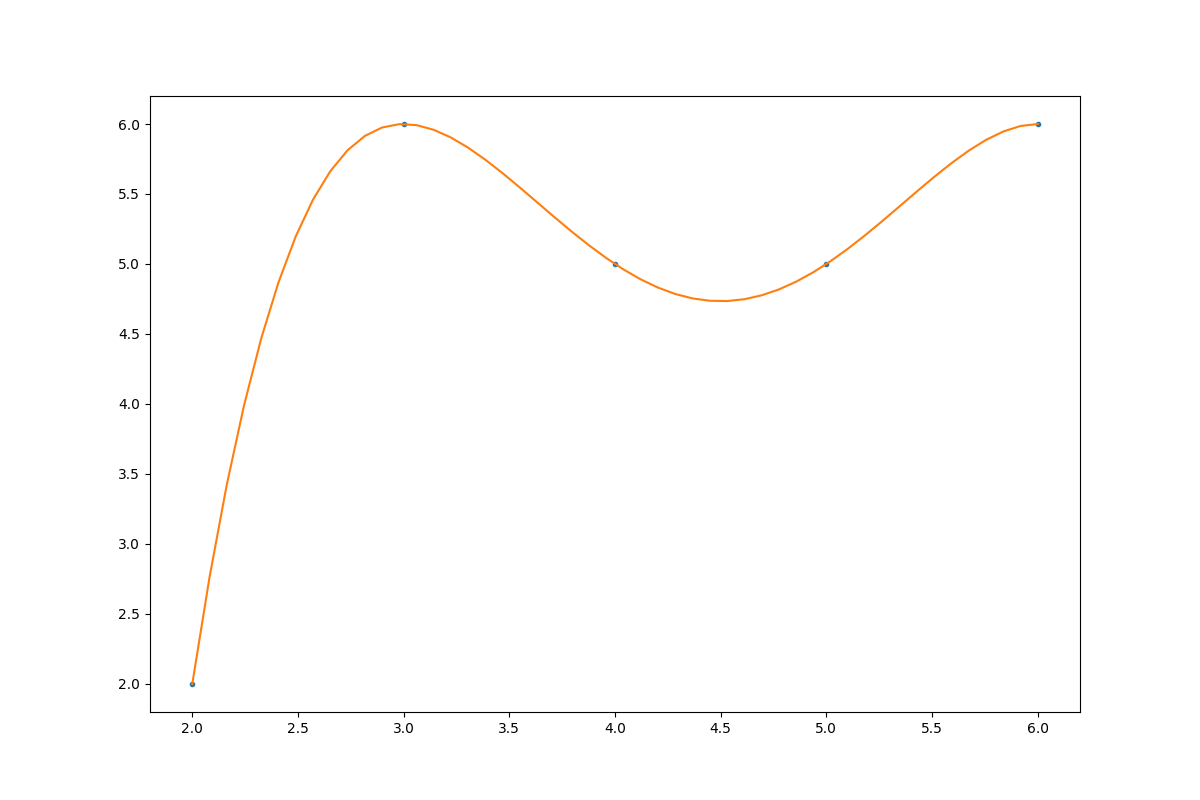
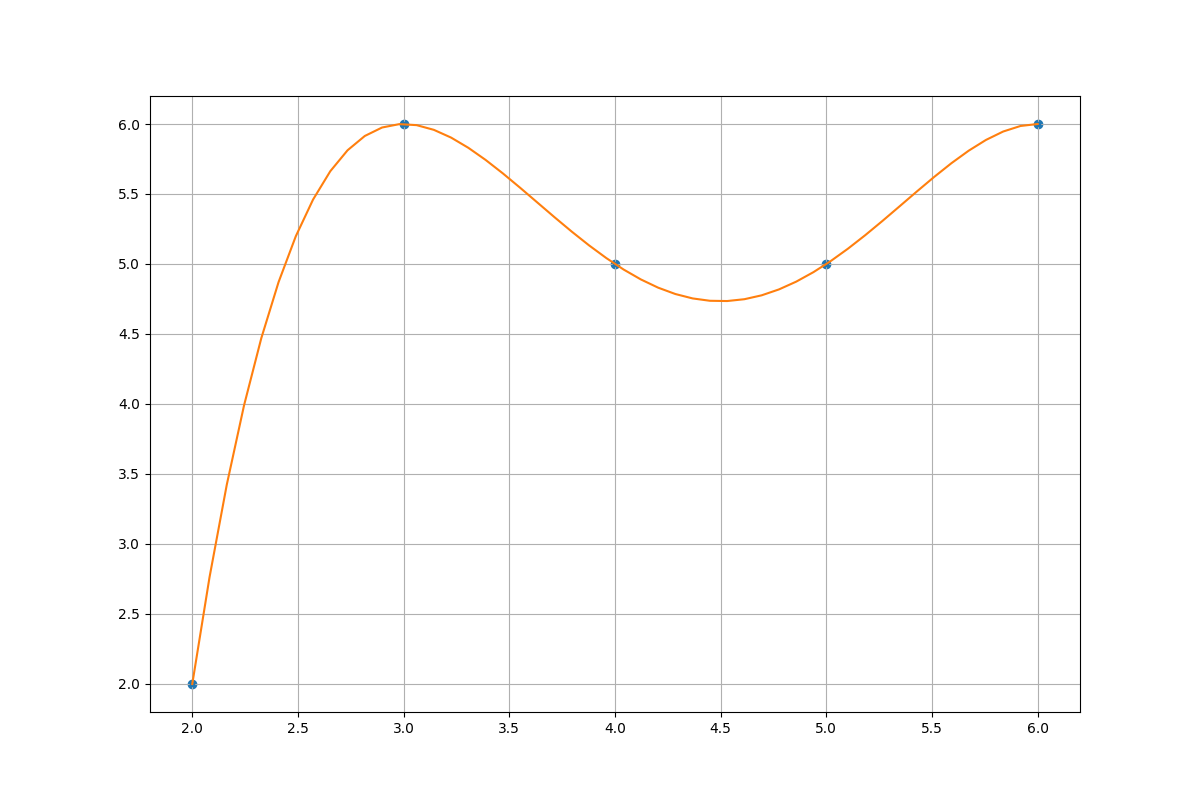
Finish assignment 1

Changed region(s): [[0.6783, 0.3125, 0.7092, 0.3438], [0.4933, 0.3125, 0.5242, 0.3438], [0.1542, 0.8438, 0.185, 0.875]]

diff --git a/assignment1/task3.py b/assignment1/task3.py
@@ -1,0 +1,105 @@
+#task3.py
+import numpy as np
+import matplotlib.pyplot as plt
+from task2 import *
+
+''' 
+########################implementation########################
+
+Lagrange polynomials fits a polynomial to a set of points by creating
+multiple equations which equal zero for the point not of interest.
+
+Say we have three points at [1,1], [2,0], [3,4]. Then the following 
+expression can be used to build a foundation to solve the problem
+    
+    (x-1)(x-2)(x-3).
+
+If the point [1,1] is to be examined, then we remove the term corresponding
+to zeroing it out, that is the (x-1) part.
+This point's y-value will be (1-2)(1-3) = (-1)(-2) = 2 at the point, 
+which is not correct (should be 1). 
+A solution is to scale all points to one and then rescale with another
+function. The downscaling can be used by normalising 
+    (x-2)(x-3)/         # (x-1) removed
+    (1-2)(1-3)          # (x-1)
+    = 1
+
+For point [2,0] this would correspond to 
+    (2-1)(2-3)/         #(x-2) 
+    (2-1)(2-3)          #(x-2) 
+    = 1
+
+This indicator function is known as the Lagrange polynomials, presented as
+l_i = \Pi_{j = 0,j \neq i}^n\frac{x-x_j}{x_i-x_j}
+where i represents the current point and j all other points.
+'''
+def lagrange_lambdas(x_vals):
+    list_of_pols = []    
+    n = len(x_vals)
+    for i in range(n):
+        p = np.poly1d([1.]) # New for each l_i
+        for j in range(n):
+            if i != j:
+                p *= np.poly1d([1, -x_vals[j]]) / (x_vals[i] - x_vals[j])
+        list_of_pols.append(p)
+    return list_of_pols
+
+'''
+The helper function scaling the points appropriately can be introduced as 
+
+p(x) = \sum^n_{i=0}y_il_i(x),
+where y_i is the corresponding value for the the point i.
+
+This can be implemented as the following
+'''
+def pi_interpolation(list_of_pols, cor_y_vals):
+    answer = 0
+    for polynom, y_value in zip(list_of_pols, cor_y_vals):
+        print(answer)
+        answer += polynom*y_value
+    return answer
+
+
+
+x_vals = [1,2,3]
+y_vals = [1,4,2]
+np_poly_coeffs = np.polyfit(x_vals, y_vals, 2)
+np_poly = np.poly1d(np_poly_coeffs)
+all_polys = lagrange_lambdas([1,2,3])
+
+
+'''individual L_i plots'''
+
+# Implemented interpolation
+ans = pi_interpolation(all_polys, y_vals)
+
+'''
+#####COMPUTE ERROR BETWEEN SELF_IMPLEMENTED AND LIBRARY#####
+From the lectures the error is bounded by some different norms, but
+can also directly be computed by estimating the norm numerically
+''' 
+def compute_error_between_pols(pol_1, pol_2, interval, n=1000):
+    a, b = interval
+    dx = (b - a) / n
+    x_mid = np.linspace(a + dx/2, b - dx/2, n) # dx steps n amount of times
+    diff = pol_1(x_mid) - pol_2(x_mid)
+    return np.sqrt(dx * np.sum(diff**2)) # sums ups the squared error error
+
+error = compute_error_between_pols(ans,np_poly, [1,3])
+
+
+lin_x_vals = np.linspace(0,4,1000)
+plt.axis([0.5,3.5,-1,4.5])
+for i, poly in enumerate(all_polys):
+    plt.plot(lin_x_vals, poly(lin_x_vals), label=f'$l_{i}(x)$')
+plt.grid(True)
+plt.scatter(x_vals, y_vals, marker='.',c='black',s=120) # data points
+plt.scatter(x_vals,np.zeros_like(x_vals),marker='.', c='black',s=120) # data points with y=0
+plt.axhline(0, color='black') # show y = 0 line
+plt.plot(lin_x_vals, ans(lin_x_vals), label=f'$Predicted$',linestyle='-', c='grey')
+plt.plot(lin_x_vals, np_poly(lin_x_vals), label=f'$True$',linestyle='dashed',c='black')
+plt.legend()
+plt.title(f'Error between estimated and true is {error:.2e}.')
+plt.savefig('assignment1/photos/task3.png')
+
+

diff --git a/assignment1/task2.py b/assignment1/task2.py
@@ -9,7 +9,7 @@ areas = [west_eu, east_eu]
 
 def build_graph(xs, ys, pol):
     #polyval = np.polynomial.polynomial.polyval(xs,ys,pol)
-    steps = np.linspace(min(xs), max(xs), 50)
+    steps = np.linspace(min(xs)-10, max(xs)+10, 500)
     z = np.polyfit(xs,ys,pol)
     p = np.poly1d(z)
     return xs, ys, steps, p
@@ -19,19 +19,19 @@ def plot_graphs(xs,ys,steps,p):
     
 
 plt.figure(figsize=[12,8])
+
 for area in areas:
     xs, ys, steps, p = build_graph(years,area,3)
     plot_graphs(xs, ys, steps , p)
 
-
-# Put in the other points
 compare_year = 1970
 west_eu_com = 71.8
 east_eu_com = 69.6
+plt.grid(True)
+
 plt.scatter(compare_year, west_eu_com, color='darkorange')
 plt.text(compare_year, west_eu_com+0.5, 'West Europe', color='darkorange')
 plt.scatter(compare_year, east_eu_com, color='darkred')
 plt.text(compare_year, east_eu_com+0.5, 'East Europe', color='darkred')
-plt.savefig('assignment1/photos/task2.png')
+plt.savefig('assignment1/photos/task2_longer_range.png')
 plt.show()
-

diff --git a/assignment1/task1.py b/assignment1/task1.py
@@ -5,24 +5,21 @@ values = [[gi[0],gi[1]] for gi in values]
 x = [gi[0] for gi in values] 
 y = [gi[1] for gi in values]
 import matplotlib.pyplot as plt # Plotting library
+plt.figure(figsize=[12,8])
+plt.grid(True)
 plt.scatter(x,y,marker='o')
 plt.axis([0,7,0,7])
+plt.savefig('assignment1/photos/task1_no_int.png')
 plt.show()
 
 #b)
 import numpy as np # Mathematics library
-
 plt.figure(figsize=[12,8])
+plt.grid(True)
 xx = np.linspace(min(x), max(x), 50)
 z = np.polyfit(x,y,4)
 p = np.poly1d(z)
 plt.plot(x,y,'.',xx,p(xx))
+plt.scatter(x,y,marker='o')
 plt.savefig('assignment1/photos/task1.png')
 plt.show()
-
-
-
-
-
-
-
